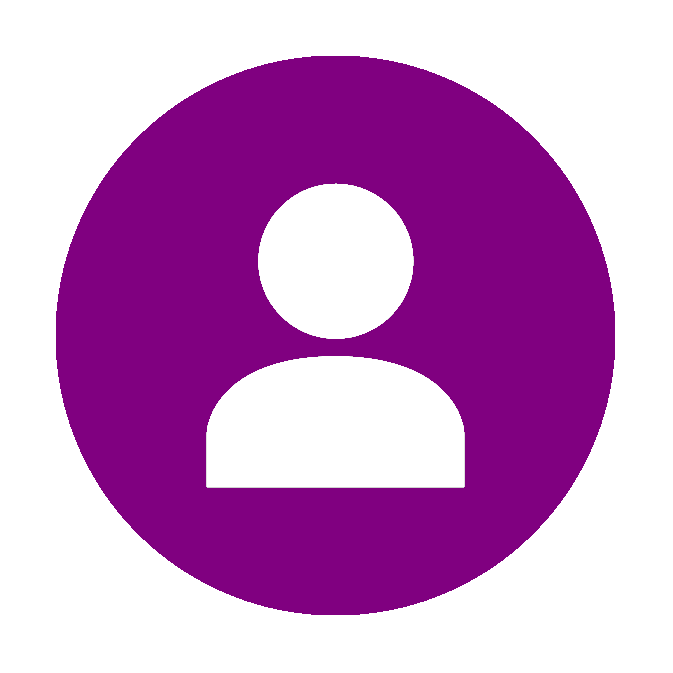
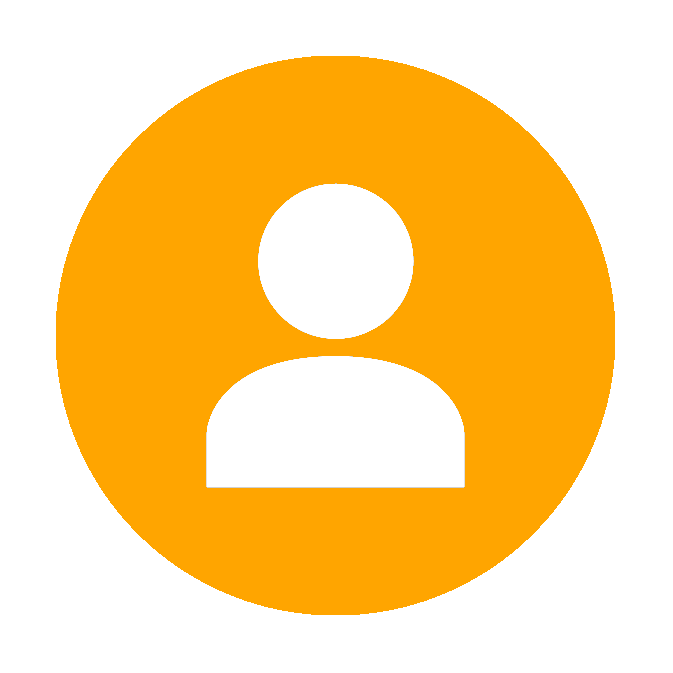
Recolor site

diff --git a/client/src/views/Notifications/Notifications.js b/client/src/views/Notifications/Notifications.js
@@ -122,7 +122,7 @@ export default function Notifications() {
   };
   return (
     <Card>
-      <CardHeader color="primary">
+      <CardHeader color="warning">
         <h4 className={classes.cardTitleWhite}>Notifications</h4>
       </CardHeader>
       <CardBody>
@@ -184,7 +184,7 @@ export default function Notifications() {
                 'PRIMARY - This is a regular notification made with color="primary"'
               }
               close
-              color="primary"
+              color="warning"
             />
           </GridItem>
         </GridContainer>
@@ -205,7 +205,7 @@ export default function Notifications() {
               <GridItem xs={12} sm={12} md={4}>
                 <Button
                   fullWidth
-                  color="primary"
+                  color="warning"
                   onClick={() => showNotification("tl")}
                 >
                   Top Left
@@ -223,7 +223,7 @@ export default function Notifications() {
               <GridItem xs={12} sm={12} md={4}>
                 <Button
                   fullWidth
-                  color="primary"
+                  color="warning"
                   onClick={() => showNotification("tc")}
                 >
                   Top Center
@@ -241,7 +241,7 @@ export default function Notifications() {
               <GridItem xs={12} sm={12} md={4}>
                 <Button
                   fullWidth
-                  color="primary"
+                  color="warning"
                   onClick={() => showNotification("tr")}
                 >
                   Top Right
@@ -265,7 +265,7 @@ export default function Notifications() {
               <GridItem xs={12} sm={12} md={4}>
                 <Button
                   fullWidth
-                  color="primary"
+                  color="warning"
                   onClick={() => showNotification("bl")}
                 >
                   Bottom Left
@@ -283,7 +283,7 @@ export default function Notifications() {
               <GridItem xs={12} sm={12} md={4}>
                 <Button
                   fullWidth
-                  color="primary"
+                  color="warning"
                   onClick={() => showNotification("bc")}
                 >
                   Bottom Center
@@ -301,7 +301,7 @@ export default function Notifications() {
               <GridItem xs={12} sm={12} md={4}>
                 <Button
                   fullWidth
-                  color="primary"
+                  color="warning"
                   onClick={() => showNotification("br")}
                 >
                   Bottom Right

diff --git a/client/src/views/TableList/TableList.js b/client/src/views/TableList/TableList.js
@@ -47,7 +47,7 @@ export default function TableList() {
     <GridContainer>
       <GridItem xs={12} sm={12} md={12}>
         <Card>
-          <CardHeader color="primary">
+          <CardHeader color="warning">
             <h4 className={classes.cardTitleWhite}>Simple Table</h4>
             <p className={classes.cardCategoryWhite}>
               Here is a subtitle for this table
@@ -55,7 +55,7 @@ export default function TableList() {
           </CardHeader>
           <CardBody>
             <Table
-              tableHeaderColor="primary"
+              tableHeaderColor="warning"
               tableHead={["Name", "Country", "City", "Salary"]}
               tableData={[
                 ["Dakota Rice", "Niger", "Oud-Turnhout", "$36,738"],
@@ -71,7 +71,7 @@ export default function TableList() {
       </GridItem>
       <GridItem xs={12} sm={12} md={12}>
         <Card plain>
-          <CardHeader plain color="primary">
+          <CardHeader plain color="warning">
             <h4 className={classes.cardTitleWhite}>
               Table on Plain Background
             </h4>
@@ -81,7 +81,7 @@ export default function TableList() {
           </CardHeader>
           <CardBody>
             <Table
-              tableHeaderColor="primary"
+              tableHeaderColor="warning"
               tableHead={["ID", "Name", "Country", "City", "Salary"]}
               tableData={[
                 ["1", "Dakota Rice", "$36,738", "Niger", "Oud-Turnhout"],

diff --git a/client/src/views/MyProfile/MyProfile.js b/client/src/views/MyProfile/MyProfile.js
@@ -122,7 +122,7 @@ export default function UserProfile() {
               <img src={profile.picture || defaultIcon} alt="" />
             </CardAvatar>
             <CardBody profile >
-              <CardHeader color="primary">
+              <CardHeader color="warning">
                 <h3 className={classes.cardTitleWhite + ' ' + classes.cardTitle}>{firstname} {lastname}</h3>
                 <p className={classes.cardCategoryWhite + ' ' + classes.description}>YOUR DATA</p>
               </CardHeader>
@@ -167,7 +167,7 @@ export default function UserProfile() {
 
         <GridItem xs={12} sm={12} md={7}>
           <Card>
-            <CardHeader color="primary">
+            <CardHeader color="warning">
               <h4 className={classes.cardTitleWhite}>Edit Profile</h4>
               <p className={classes.cardCategoryWhite}>Complete your profile</p>
             </CardHeader>
@@ -257,7 +257,7 @@ export default function UserProfile() {
               </GridContainer>
             </CardBody>
             <CardFooter>
-              <Button color="primary" onClick={handleUpdateProfile}>Update Your Profile</Button>
+              <Button color="warning" onClick={handleUpdateProfile}>Update Your Profile</Button>
             </CardFooter>
           </Card>
         </GridItem>

diff --git a/models/User/UserUtils.js b/models/User/UserUtils.js
@@ -97,24 +97,13 @@ var getUserProfile = function (req, res) {
 };
 
 var updateUserProfile = function (req, res) {
-    let objId;
-    User.findOne({ auth0id: req.body.auth0id }, function (err, user) {
+    User.findOneAndUpdate({ auth0id: req.body.auth0id }, req.body, { new: true }, function (err, usr) {
         if (err) {
             console.log(err);
         } else {
-            objId = user._id;
-
-            User.findByIdAndUpdate(objId, req.body, { new: true }, function (err, usr) {
-                if (err) {
-                    console.log(err);
-                } else {
-                    res.status(200).json(usr);
-                }
-            });
+            res.status(200).json(usr);
         }
     });
-
-    
 };
 
 module.exports = {

diff --git a/client/src/views/Icons/Icons.js b/client/src/views/Icons/Icons.js
@@ -20,7 +20,7 @@ export default function Icons() {
     <GridContainer>
       <GridItem xs={12} sm={12} md={12}>
         <Card plain>
-          <CardHeader plain color="primary">
+          <CardHeader plain color="warning">
             <h4 className={classes.cardTitleWhite}>Material Design Icons</h4>
             <p className={classes.cardCategoryWhite}>
               Handcrafted by our friends from{" "}

diff --git a/client/src/views/Typography/Typography.js b/client/src/views/Typography/Typography.js
@@ -56,7 +56,7 @@ export default function TypographyPage() {
   const classes = useStyles();
   return (
     <Card>
-      <CardHeader color="primary">
+      <CardHeader color="warning">
         <h4 className={classes.cardTitleWhite}>Material Dashboard Heading</h4>
         <p className={classes.cardCategoryWhite}>
           Created using Roboto Font Family

diff --git a/index.js b/index.js
@@ -115,6 +115,10 @@ app.use(express.static(root));
 autoIncrement.initialize(mongoose.connection);
 mongoose.set('useCreateIndex', true);
 
+// Make Mongoose use `findOneAndUpdate()`. Note that this option is `true`
+// by default, you need to set it to false.
+mongoose.set('useFindAndModify', false)
+
 if(!isProduction){
   mongoose.set('debug', true);
 }

diff --git a/client/src/views/Dashboard/Dashboard.js b/client/src/views/Dashboard/Dashboard.js
@@ -199,7 +199,7 @@ export default function Dashboard() {
         <GridItem xs={12} sm={12} md={6}>
           <CustomTabs
             title="Tasks:"
-            headerColor="primary"
+            headerColor="warning"
             tabs={[
               {
                 tabName: "Bugs",

diff --git a/routes/user.js b/routes/user.js
@@ -24,5 +24,4 @@ router.post('/updateUserProfile', userUtils.updateUserProfile);
 
 router.param('userId', userUtils.findUserById);
 
-
 module.exports = router;
